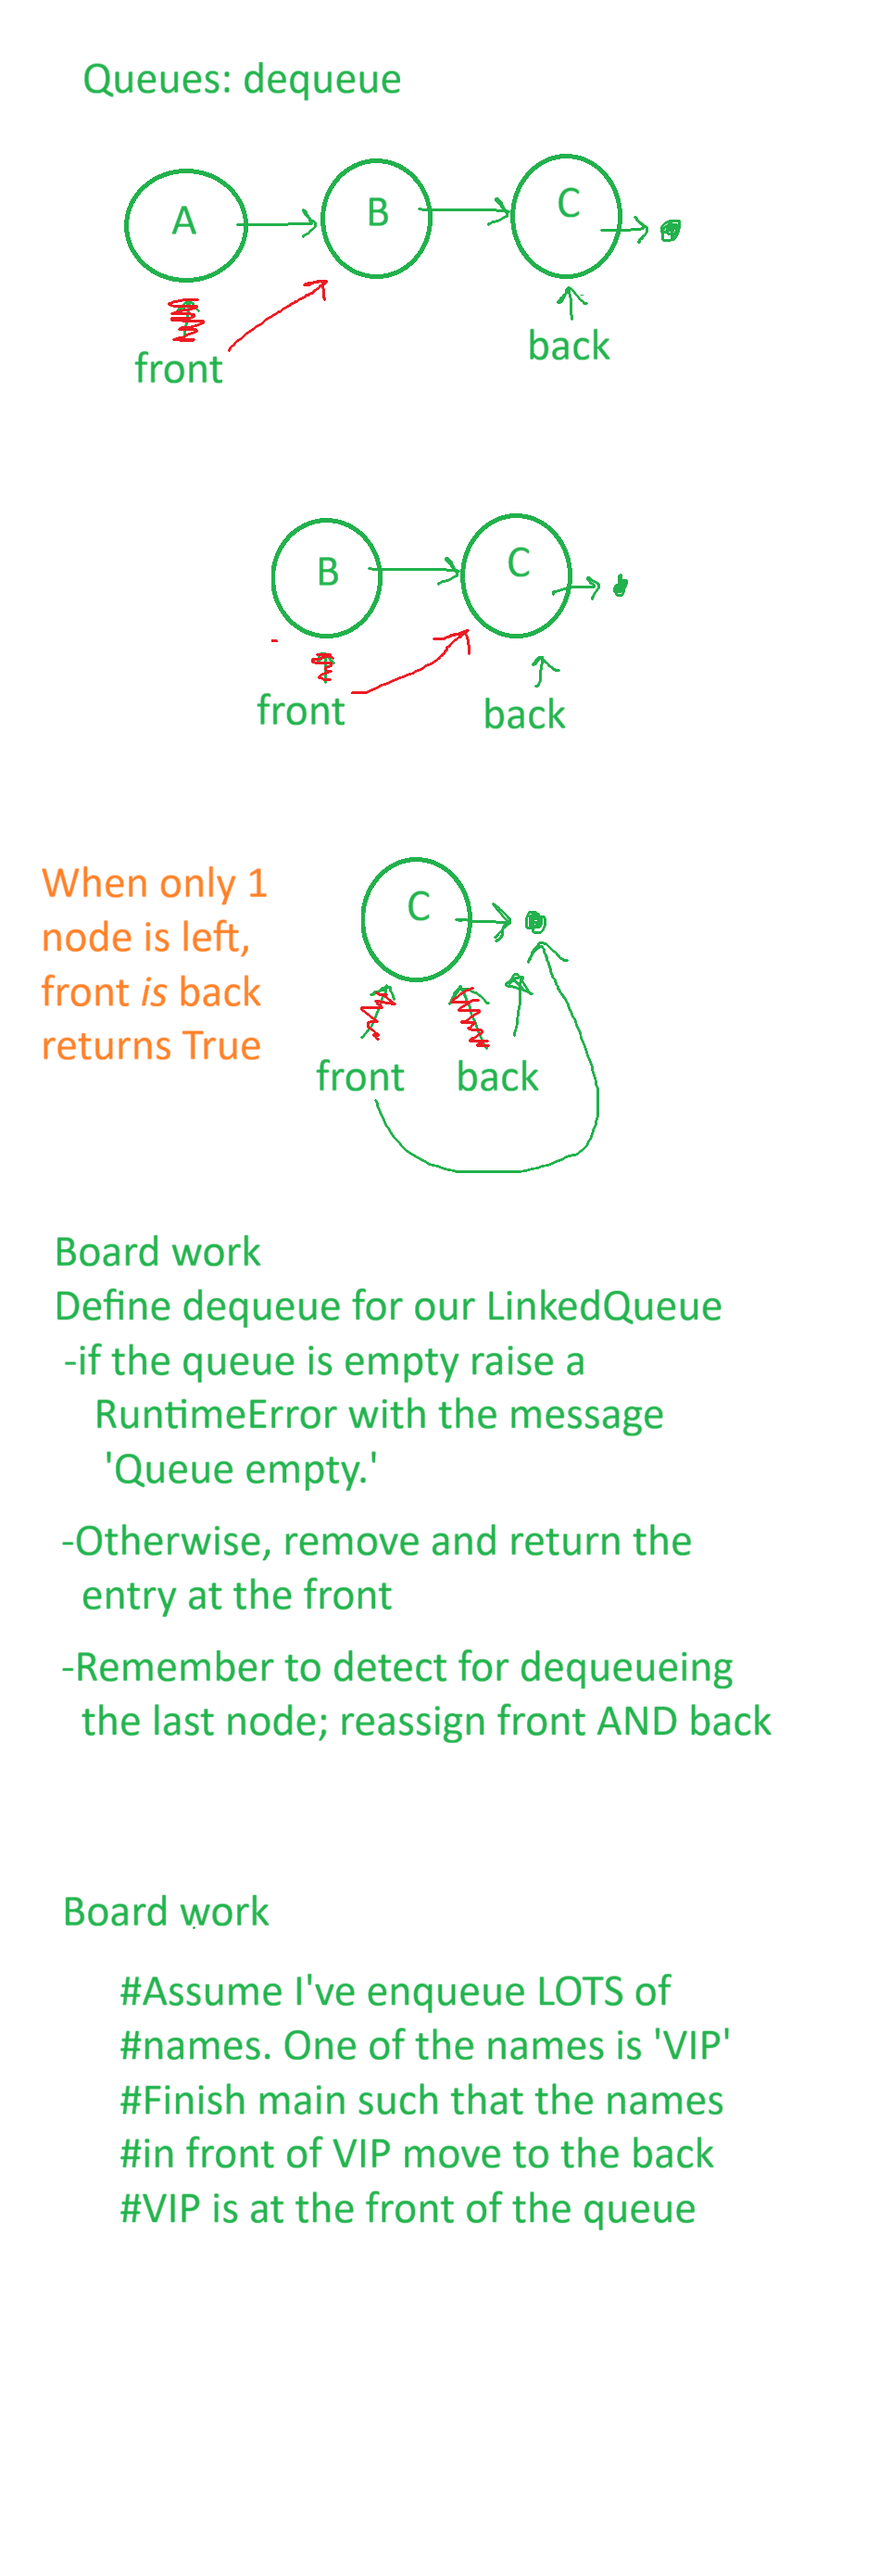
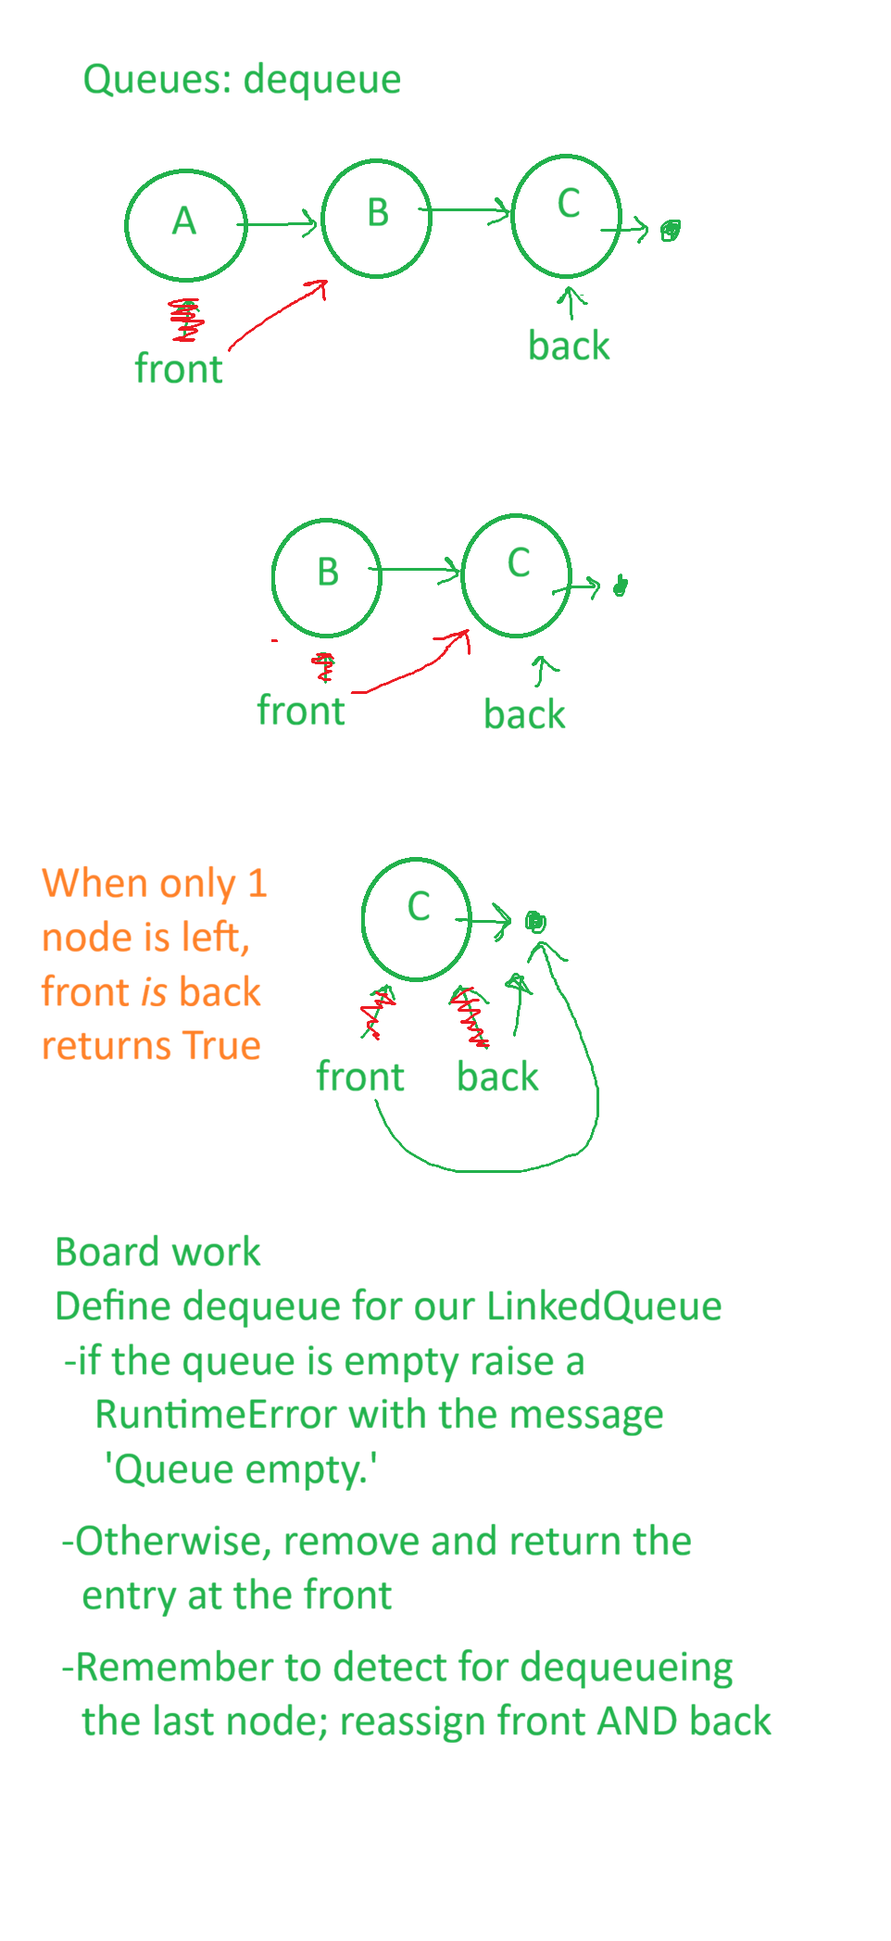
Add 168/268 notes

diff --git a/eecs168/2026fall/MWF/2026.09.11.exercises-more-strings/stringdemo.py b/eecs168/2026fall/MWF/2026.09.11.exercises-more-strings/stringdemo.py
@@ -1,0 +1,12 @@
+phrase = 'Top row\nBottom row'
+print(phrase)
+headers = 'Mon\tTue\tWed\tThur\tFri'
+print(headers)
+
+phrase = "He said, \"I can\'t see it\""
+print(phrase)
+print('this is a backslash \\')
+
+num = 5
+print(f'The number is {num}')
+print(f'5+3 = {5+3}')

diff --git a/eecs268/2026fall/MWF/2026.09.11.lists/linkedlist.py b/eecs268/2026fall/MWF/2026.09.11.lists/linkedlist.py
@@ -1,0 +1,8 @@
+#linkedlist.py
+
+from node import Node
+
+class LinkedList:
+    def __init__(self):
+        self._length = 0
+        self._front = None

diff --git a/eecs268/2026fall/MWF/2026.09.11.lists/node.py b/eecs268/2026fall/MWF/2026.09.11.lists/node.py
@@ -1,0 +1,6 @@
+#node.py
+
+class Node:
+    def __init__(self, entry):
+        self.entry = entry
+        self.next = None
